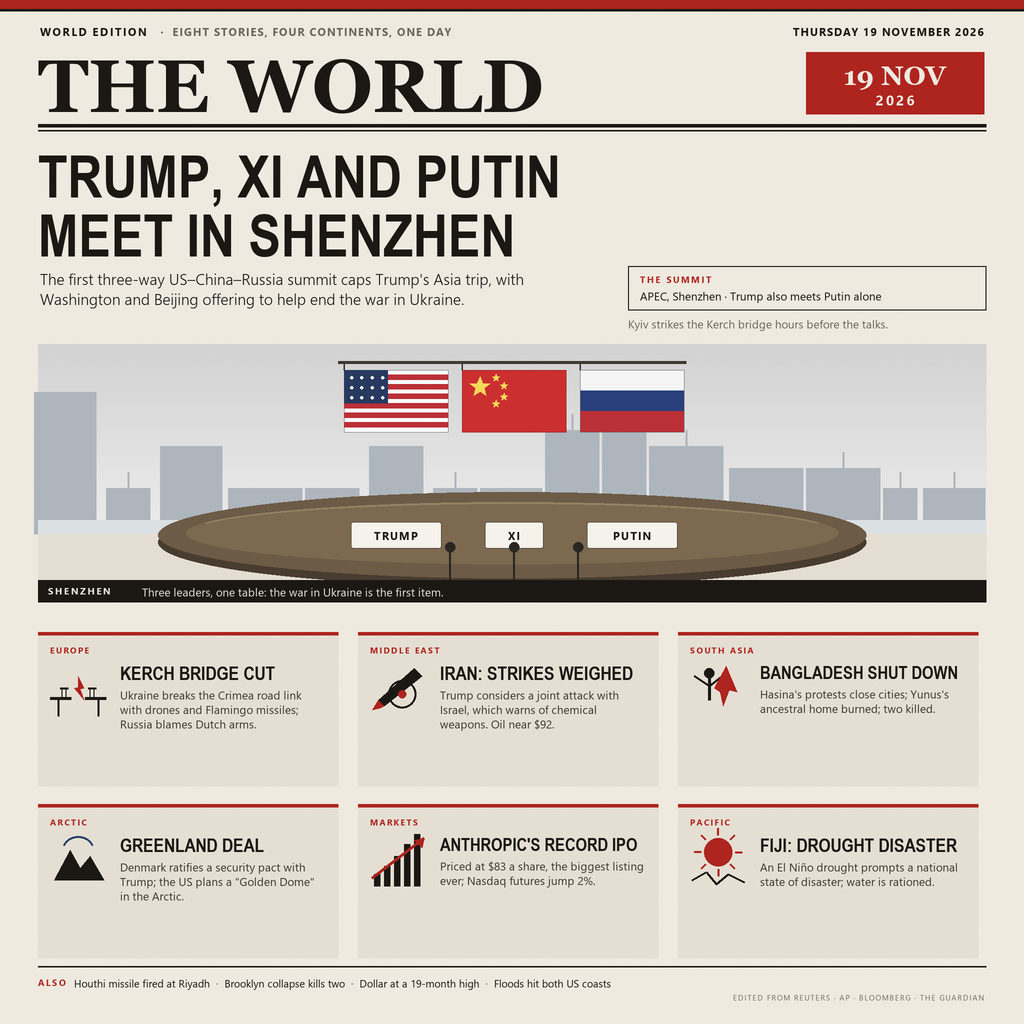
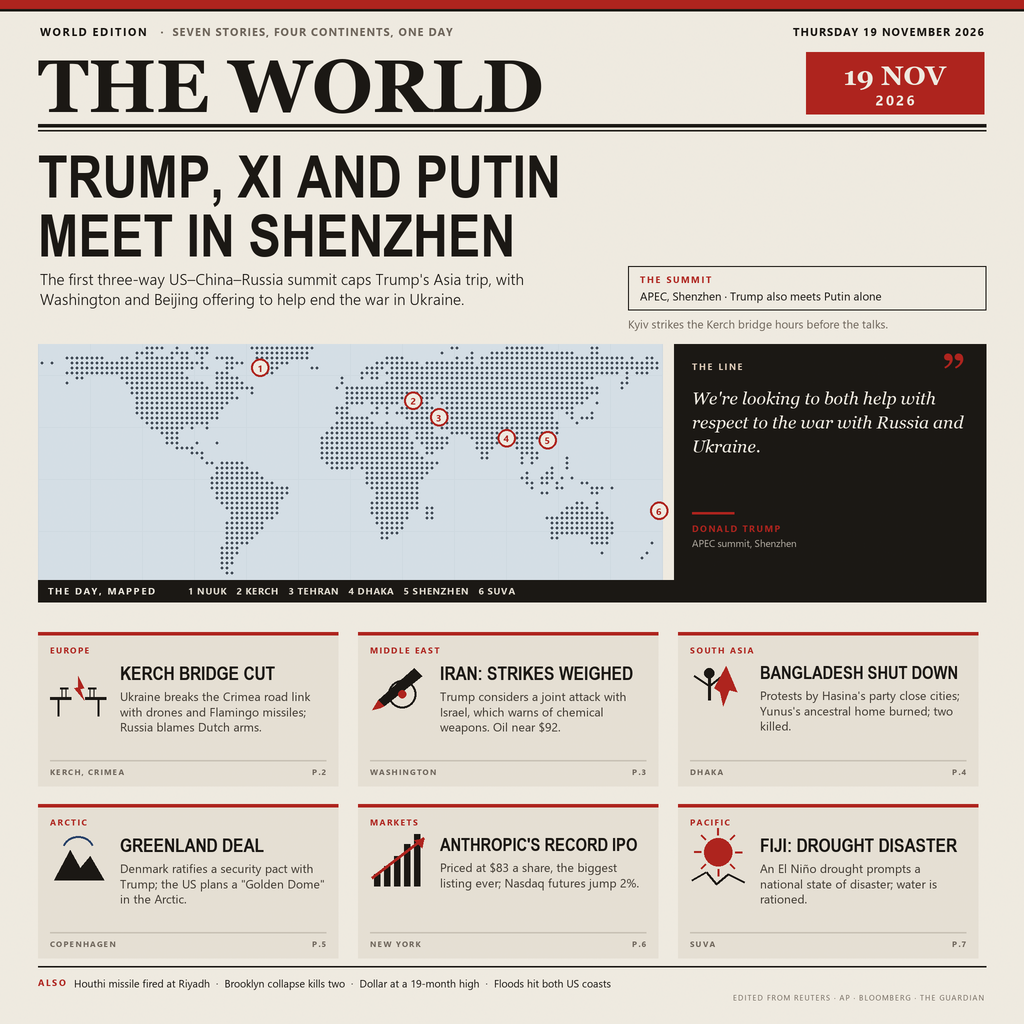
Second edition: dotted world map, summit quote, datelines

diff --git a/tools/make_image.py b/tools/make_image.py
@@ -83,7 +83,7 @@ kick = f(SEGOE_B, 11)
 text(40, 24, "WORLD EDITION", kick, INK, spacing=1.6)
 kd = 40 + (kick.getlength("WORLD EDITION") / S + 1.6 * 12) + 14
 text(kd, 24, "·", kick, GREY)
-text(kd + 12, 24, "EIGHT STORIES, FOUR CONTINENTS, ONE DAY", kick, GREY, spacing=1.0)
+text(kd + 12, 24, "SEVEN STORIES, FOUR CONTINENTS, ONE DAY", kick, GREY, spacing=1.0)
 text(984, 24, "THURSDAY 19 NOVEMBER 2026", kick, INK, anchor="ra", spacing=1.0)
 
 # ---------------------------------------------------------------- masthead
@@ -111,104 +111,102 @@ text(640, 273, "THE SUMMIT", f(SEGOE_B, 9), RED, spacing=1.6)
 text(640, 288, "APEC, Shenzhen · Trump also meets Putin alone", f(SEGOE, 11.5), INK)
 text(628, 316, "Kyiv strikes the Kerch bridge hours before the talks.", f(SEGOE, 11.5), GREY)
 
-# ---------------------------------------------------------------- hero
+# ---------------------------------------------------------------- hero: map
+import json, os
+
 HX, HY, HW, HH = 38, 344, 948, 236
-rect(HX, HY, HW, HH, (223, 228, 231))
-# sky gradient
-for i in range(HH):
-    t = i / HH
-    c = tuple(int(214 + (247 - 214) * t) for _ in range(3))
-    d.line([(HX * S, (HY + i) * S), ((HX + HW) * S, (HY + i) * S)], fill=c, width=S)
+MX, MY, MW, MH = HX, HY, 624, HH
+LAT_T, LAT_B = 78.0, -58.0
+SEA = (216, 226, 233)
 
-# skyline (fixed hand-tuned towers)
-random.seed(20261119)
-x = HX - 4
-sky = (176, 184, 192)
-while x < HX + HW:
-    bw = random.choice([34, 44, 54, 62, 74])
-    bh = random.choice([46, 66, 88, 104, 124, 142])
-    top = HY + 190 - bh
-    d.rectangle([x * S, top * S, (x + bw) * S, (HY + 190) * S], fill=sky)
-    if random.random() < 0.5:
-        sx = x + bw // 2
-        d.line([(sx * S, (top - 16) * S), (sx * S, top * S)], fill=sky, width=2 * S)
-    x += bw + random.choice([3, 6, 10])
-# haze band over skyline
-rect(HX, HY + 176, HW, 16, (223, 228, 231))
+_here = os.path.dirname(os.path.abspath(__file__))
+_geo = json.load(open(os.path.join(_here, "world.geojson"), encoding="utf-8"))
+_polys = []
+for _f in _geo["features"]:
+    _g = _f["geometry"]
+    _cs = _g["coordinates"]
+    if _g["type"] == "Polygon":
+        _cs = [_cs]
+    for _poly in _cs:
+        _ring = _poly[0]
+        _bx = [p[0] for p in _ring]
+        _by = [p[1] for p in _ring]
+        _polys.append((min(_bx), min(_by), max(_bx), max(_by), _poly))
 
-# summit hall floor
-d.rectangle([HX * S, (HY + 190) * S, (HX + HW) * S, (HY + HH) * S], fill=(232, 226, 214))
+def _in_ring(x, y, ring):
+    inside = False
+    j = len(ring) - 1
+    for i in range(len(ring)):
+        xi, yi = ring[i][0], ring[i][1]
+        xj, yj = ring[j][0], ring[j][1]
+        if (yi > y) != (yj > y) and x < (xj - xi) * (y - yi) / (yj - yi) + xi:
+            inside = not inside
+        j = i
+    return inside
 
-# flags hanging from a rod
-rod_y = HY + 18
-d.line([((HX + 300) * S, rod_y * S), ((HX + 648) * S, rod_y * S)], fill=(60, 55, 48), width=3 * S)
+def _on_land(lon, lat):
+    for (x1, y1, x2, y2, poly) in _polys:
+        if not (x1 - 1 <= lon <= x2 + 1 and y1 - 1 <= lat <= y2 + 1):
+            continue
+        if _in_ring(lon, lat, poly[0]) and not any(_in_ring(lon, lat, h) for h in poly[1:]):
+            return True
+    return False
 
-def flag_us(x, y, w, h):
-    rect(x, y, w, h, (255, 255, 255), (120, 120, 120), 0.5)
-    sh = h / 13
-    for i in range(1, 13, 2):
-        rect(x, y + i * sh, w, sh, (190, 45, 52))
-    rect(x, y, w * 0.42, sh * 7, (37, 55, 95))
-    for r in range(3):
-        for c in range(4):
-            d.ellipse([(x + 6 + c * w * 0.1) * S, (y + 6 + r * 10) * S,
-                       (x + 9 + c * w * 0.1) * S, (y + 9 + r * 10) * S], fill=(255, 255, 255))
+def _px(lon):
+    return MX + (lon + 180) / 360 * MW
 
-def flag_cn(x, y, w, h):
-    rect(x, y, w, h, (206, 45, 45), (150, 30, 30), 0.5)
-    cx, cy = x + 18, y + 17
-    star = []
-    for k in range(10):
-        r = 11 if k % 2 == 0 else 4.6
-        a = -math.pi / 2 + k * math.pi / 5
-        star.append(((cx + r * math.cos(a)) * S, (cy + r * math.sin(a)) * S))
-    d.polygon(star, fill=(250, 220, 90))
-    for (ox, oy) in [(34, 8), (42, 16), (42, 27), (34, 34)]:
-        s = 4.2
-        pts = []
-        for k in range(10):
-            r = s if k % 2 == 0 else s / 2.4
-            a = -math.pi / 2 + k * math.pi / 5
-            pts.append(((x + ox + r * math.cos(a)) * S, (y + oy + r * math.sin(a)) * S))
-        d.polygon(pts, fill=(250, 220, 90))
+def _py(lat):
+    return MY + (LAT_T - lat) / (LAT_T - LAT_B) * MH
 
-def flag_ru(x, y, w, h):
-    rect(x, y, w, h / 3, (250, 250, 250), (150, 150, 150), 0.4)
-    rect(x, y + h / 3, w, h / 3, (38, 62, 125))
-    rect(x, y + 2 * h / 3, w, h / 3, (190, 45, 52))
-    rect(x, y, w, h, None, (110, 110, 110), 0.4)
+rect(MX, MY, MW, MH, SEA)
+for lon in range(-180, 181, 30):
+    d.line([(_px(lon) * S, MY * S), (_px(lon) * S, (MY + MH) * S)], fill=(210, 221, 228), width=1 * S)
+for lat in range(-60, 79, 30):
+    d.line([(MX * S, _py(lat) * S), ((MX + MW) * S, _py(lat) * S)], fill=(210, 221, 228), width=1 * S)
 
-FW, FH = 104, 62
-for fx, fn in [(HX + 306, flag_us), (HX + 424, flag_cn), (HX + 542, flag_ru)]:
-    d.line([(fx * S, rod_y * S), (fx * S, (rod_y + 8) * S)], fill=(60, 55, 48), width=int(1.5 * S))
-    fn(fx, rod_y + 8, FW, FH)
+STEP = 5
+for gy in range(4, MH - 3, STEP):
+    lat = LAT_T - (gy + 0.5) / MH * (LAT_T - LAT_B)
+    for gx in range(4, MW - 3, STEP):
+        lon = (gx + 0.5) / MW * 360 - 180
+        if _on_land(lon, lat):
+            r = 1.4
+            d.ellipse([(MX + gx - r) * S, (MY + gy - r) * S, (MX + gx + r) * S, (MY + gy + r) * S],
+                      fill=(60, 70, 82))
 
-# negotiating table
-d.ellipse([(HX + 120) * S, (HY + 154) * S, (HX + 828) * S, (HY + 242) * S],
-          fill=(70, 58, 45))
-d.ellipse([(HX + 120) * S, (HY + 148) * S, (HX + 828) * S, (HY + 234) * S],
-          fill=(108, 90, 68))
-d.ellipse([(HX + 148) * S, (HY + 158) * S, (HX + 800) * S, (HY + 220) * S],
-          fill=(124, 105, 79))
-d.arc([(HX + 148) * S, (HY + 158) * S, (HX + 800) * S, (HY + 220) * S],
-      200, 340, fill=(150, 129, 99), width=2 * S)
+pins = [
+    ("1", -51.7, 64.2),
+    ("2", 36.5, 45.3),
+    ("3", 51.4, 35.7),
+    ("4", 90.4, 23.8),
+    ("5", 114.06, 22.54),
+    ("6", 178.4, -18.1),
+]
+fnum = f(SEGOE_B, 9.5)
+for nm, lon, lat in pins:
+    x, y = _px(lon), _py(lat)
+    d.ellipse([(x - 9) * S, (y - 9) * S, (x + 9) * S, (y + 9) * S], fill=PAPER, outline=RED, width=int(2 * S))
+    text(x, y, nm, fnum, RED, anchor="mm")
 
-# place cards
-names = [("TRUMP", 396), ("XI", 514), ("PUTIN", 632)]
-for nm, cx in names:
-    cw = 90 if nm != "XI" else 58
-    rect(cx - cw / 2, HY + 178, cw, 26, (250, 247, 239), (60, 50, 40), 0.8, 2)
-    text(cx, HY + 184, nm, f(SEGOE_B, 11), INK, anchor="ma", spacing=1.2)
+# quote panel
+PX, PY, PW, PH = HX + 636, HY, HW - 636, HH
+rect(PX, PY, PW, PH, INK)
+text(PX + PW - 44, PY + 2, "\u201d", f(GEORGIA_B, 44), RED)
+text(PX + 18, PY + 16, "THE LINE", f(SEGOE_B, 9), (230, 210, 190), spacing=1.6)
+qf = f("georgiai.ttf", 17.5)
+qy = PY + 44
+for ln in wrap("We're looking to both help with respect to the war with Russia and Ukraine.", qf, PW - 36):
+    text(PX + 18, qy, ln, qf, (247, 242, 232))
+    qy += 24
+rect(PX + 18, PY + 168, 42, 2, RED)
+text(PX + 18, PY + 178, "DONALD TRUMP", f(SEGOE_B, 9), RED, spacing=1.4)
+text(PX + 18, PY + 192, "APEC summit, Shenzhen", f(SEGOE, 10), (180, 174, 164))
 
-# microphones
-for mx in (450, 514, 578):
-    d.line([(mx * S, (HY + 236) * S), (mx * S, (HY + 206) * S)], fill=(40, 36, 30), width=2 * S)
-    d.ellipse([(mx - 5) * S, (HY + 198) * S, (mx + 5) * S, (HY + 208) * S], fill=(40, 36, 30))
-
-# hero caption / labels
-rect(HX, HY + HH, 948, 22, INK)
-text(HX + 10, HY + HH + 4, "SHENZHEN", f(SEGOE_B, 9.5), PAPER, spacing=1.6)
-text(HX + 104, HY + HH + 4, "Three leaders, one table: the war in Ukraine is the first item.", f(SEGOE, 11.5), (232, 226, 214))
+# caption bar
+rect(HX, HY + HH, HW, 22, INK)
+text(HX + 10, HY + HH + 4, "THE DAY, MAPPED", f(SEGOE_B, 9.5), PAPER, spacing=1.6)
+leg = "1 NUUK   2 KERCH   3 TEHRAN   4 DHAKA   5 SHENZHEN   6 SUVA"
+text(HX + 150, HY + HH + 4, leg, f(SEGOE_B, 9.5), (232, 226, 214), spacing=0.6)
 
 # ---------------------------------------------------------------- tiles
 TILE_Y = 632
@@ -264,15 +262,15 @@ def draw_icon(kind, x, y):
                 ((x + 38) * S, (y + 40) * S), ((x + 54) * S, (y + 48) * S)], fill=col, width=2 * S)
 
 stories = [
-    ("EUROPE", "KERCH BRIDGE CUT", "Ukraine breaks the Crimea road link with drones and Flamingo missiles; Russia blames Dutch arms.", "bridge"),
-    ("MIDDLE EAST", "IRAN: STRIKES WEIGHED", "Trump considers a joint attack with Israel, which warns of chemical weapons. Oil near $92.", "missile"),
-    ("SOUTH ASIA", "BANGLADESH SHUT DOWN", "Hasina's protests close cities; Yunus's ancestral home burned; two killed.", "protest"),
-    ("ARCTIC", "GREENLAND DEAL", "Denmark ratifies a security pact with Trump; the US plans a \"Golden Dome\" in the Arctic.", "arctic"),
-    ("MARKETS", "ANTHROPIC'S RECORD IPO", "Priced at $83 a share, the biggest listing ever; Nasdaq futures jump 2%.", "chart"),
-    ("PACIFIC", "FIJI: DROUGHT DISASTER", "An El Niño drought prompts a national state of disaster; water is rationed.", "drought"),
+    ("EUROPE", "KERCH BRIDGE CUT", "Ukraine breaks the Crimea road link with drones and Flamingo missiles; Russia blames Dutch arms.", "bridge", "KERCH, CRIMEA"),
+    ("MIDDLE EAST", "IRAN: STRIKES WEIGHED", "Trump considers a joint attack with Israel, which warns of chemical weapons. Oil near $92.", "missile", "WASHINGTON"),
+    ("SOUTH ASIA", "BANGLADESH SHUT DOWN", "Protests by Hasina's party close cities; Yunus's ancestral home burned; two killed.", "protest", "DHAKA"),
+    ("ARCTIC", "GREENLAND DEAL", "Denmark ratifies a security pact with Trump; the US plans a \"Golden Dome\" in the Arctic.", "arctic", "COPENHAGEN"),
+    ("MARKETS", "ANTHROPIC'S RECORD IPO", "Priced at $83 a share, the biggest listing ever; Nasdaq futures jump 2%.", "chart", "NEW YORK"),
+    ("PACIFIC", "FIJI: DROUGHT DISASTER", "An El Niño drought prompts a national state of disaster; water is rationed.", "drought", "SUVA"),
 ]
 
-for i, (cat, head, body, icon) in enumerate(stories):
+for i, (cat, head, body, icon, place) in enumerate(stories):
     cx = COLX[i % 3]
     cy = TILE_Y + (i // 3) * (TH + 18)
     rect(cx, cy, TW, TH, (233, 227, 215))
@@ -303,7 +301,11 @@ for i, (cat, head, body, icon) in enumerate(stories):
     for ln in hlines:
         text(tx, hy, ln, hf, INK)
         hy += hsize + 1
-    para(tx, hy + 5, body, f(SEGOE, 11.8), tw, (60, 54, 46), 1.26)
+    para(tx, hy + 6, body, f(SEGOE, 12.4), tw, (60, 54, 46), 1.28)
+    # dateline footer
+    rect(cx + 12, cy + TH - 26, TW - 24, 1, LIGHT)
+    text(cx + 12, cy + TH - 20, place, f(SEGOE_B, 8), GREY, spacing=1.2)
+    text(cx + TW - 12, cy + TH - 20, "P.%d" % (i + 2), f(SEGOE_B, 8), GREY, anchor="ra", spacing=1.2)
 
 # ---------------------------------------------------------------- bottom rule + ticker
 rect(38, 966, 948, 1, INK)
@@ -327,3 +329,5 @@ img = Image.composite(img, dark, vig.point(lambda v: 255 - (255 - v) // 4))
 img = img.resize((W, H), Image.LANCZOS)
 img.save("entry.png", optimize=True)
 print("saved", img.size)
+
+

diff --git a/README.md b/README.md
@@ -24,10 +24,12 @@ the world's largest faith.
 
 ## How it is made
 
-`tools/make_image.py` composes the page with Pillow from the day's headlines:
-register, flags, leader place cards, six illustrated briefs, and a ticker. The
-random seed is fixed, so two renders are byte-identical. It is rendered at 2× and
-downsampled to 1024×1024.
+`tools/make_image.py` composes the page with Pillow from the day's headlines: a
+dotted world map with six numbered datelines, a pull quote from the summit, six
+illustrated briefs, and a ticker. The map is drawn from Natural Earth's 1:110m
+land polygons (public domain); the dots are point-in-polygon samples under an
+equirectangular projection. The random seed is fixed, so two renders are
+byte-identical. It is rendered at 2× and downsampled to 1024×1024.
 
 `main.ts` publishes the committed artwork:
 
@@ -42,6 +44,7 @@ the same bytes.
 ## Sources
 
 Reporting from Reuters, AP, Bloomberg, The Guardian and Axios on 19 November 2026.
+Map data: [Natural Earth](https://www.naturalearthdata.com/), 1:110m land (public domain).
 
 ## Licence
 
